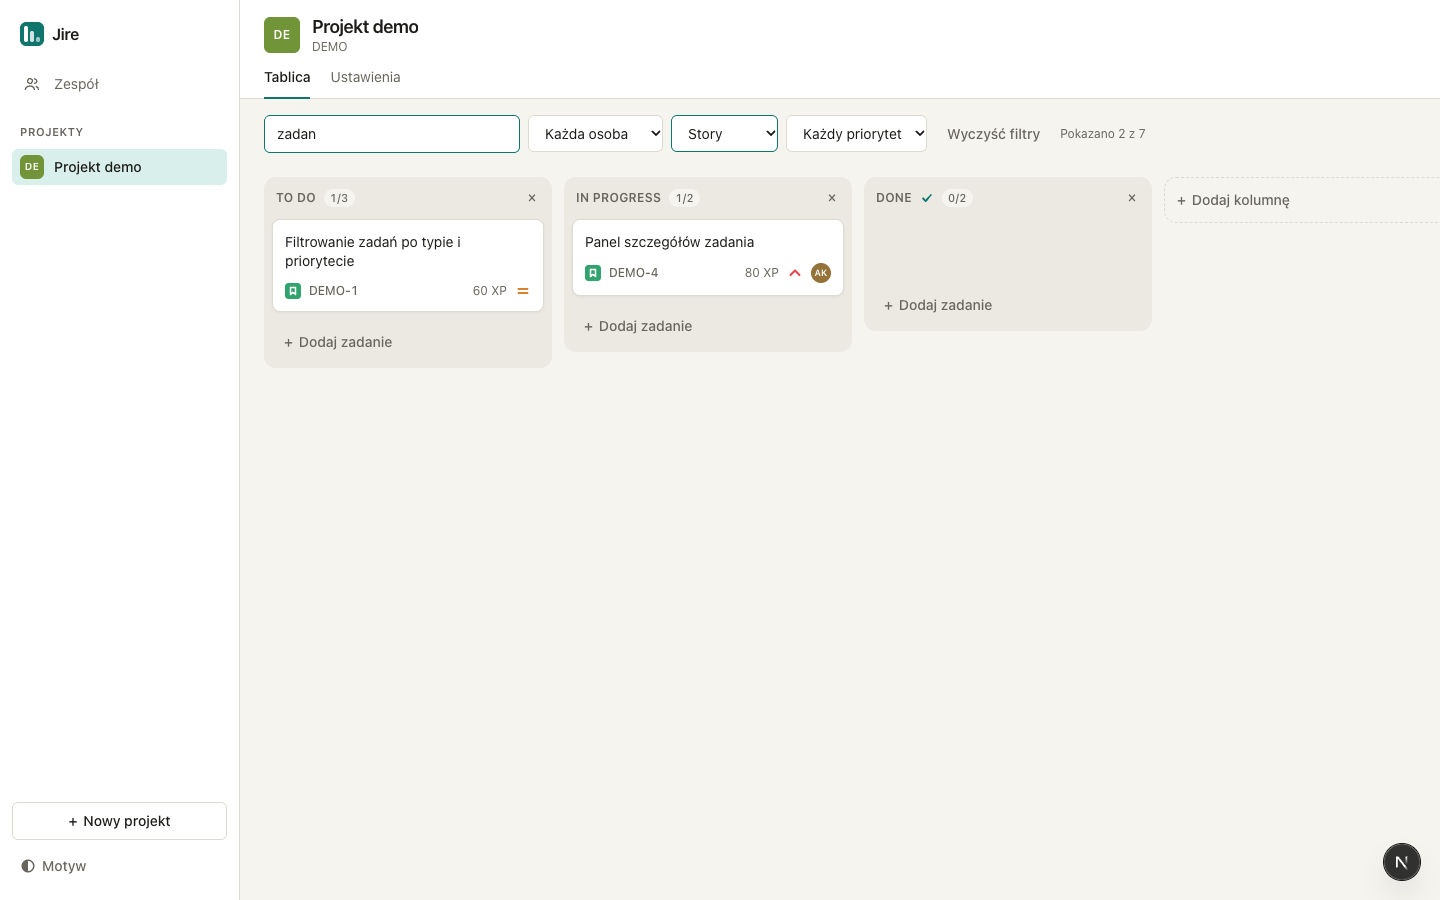
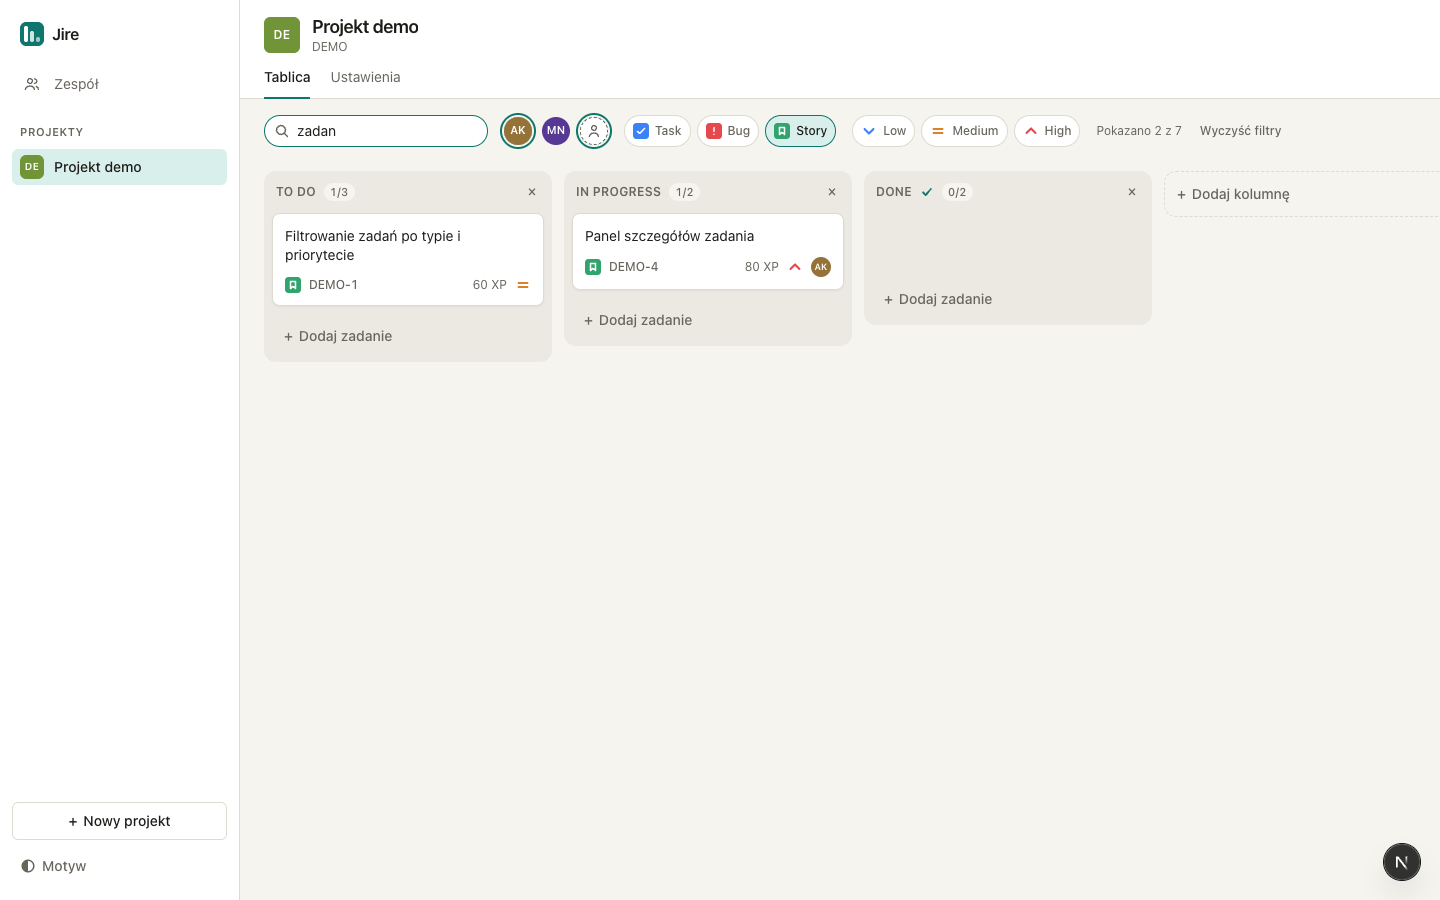
Turn the board filters into toggle chips
The selects made the bar look like a form and stretched across the whole
width on narrower screens. People are now avatar toggles and types and
priorities are chips with their icons, several of which can be on at once.
On phones the toggles sit in one strip that scrolls sideways.

diff --git a/src/components/BoardFilters.tsx b/src/components/BoardFilters.tsx
@@ -10,30 +10,31 @@ import {
   type IssueType,
 } from "@/lib/constants";
 import type { BoardIssue } from "@/lib/queries";
-
-const UNASSIGNED = "none";
+import { PriorityIcon, TypeIcon } from "./IssueBadges";
+import { MemberAvatar } from "./MemberAvatar";
 
 export type BoardFilters = {
   query: string;
-  /** "" for anyone, UNASSIGNED, or a member id. */
-  assignee: string;
-  type: IssueType | "";
-  priority: IssuePriority | "";
+  /** Member ids; null stands for issues nobody is assigned to. */
+  assignees: (number | null)[];
+  types: IssueType[];
+  priorities: IssuePriority[];
 };
 
+// An empty list means "any": a filter only narrows once something is picked.
 export const NO_FILTERS: BoardFilters = {
   query: "",
-  assignee: "",
-  type: "",
-  priority: "",
+  assignees: [],
+  types: [],
+  priorities: [],
 };
 
 export function hasFilters(filters: BoardFilters) {
   return (
     filters.query.trim() !== "" ||
-    filters.assignee !== "" ||
-    filters.type !== "" ||
-    filters.priority !== ""
+    filters.assignees.length > 0 ||
+    filters.types.length > 0 ||
+    filters.priorities.length > 0
   );
 }
 
@@ -51,11 +52,12 @@ export function matchesFilters(
   filters: BoardFilters,
   projectKey: string,
 ) {
-  if (filters.type && issue.type !== filters.type) return false;
-  if (filters.priority && issue.priority !== filters.priority) return false;
-  if (filters.assignee === UNASSIGNED) {
-    if (issue.assigneeId !== null) return false;
-  } else if (filters.assignee && String(issue.assigneeId) !== filters.assignee) {
+  const picked = <T,>(list: T[], value: T) => list.length === 0 || list.includes(value);
+  if (
+    !picked(filters.assignees, issue.assigneeId) ||
+    !picked(filters.types, issue.type) ||
+    !picked(filters.priorities, issue.priority)
+  ) {
     return false;
   }
 
@@ -65,8 +67,71 @@ export function matchesFilters(
     .every((word) => text.includes(word));
 }
 
-const SELECT_CLASS = "field lg:w-auto";
-const activeClass = (value: string) => (value ? "border-accent" : "");
+function toggle<T>(list: T[], value: T) {
+  return list.includes(value) ? list.filter((v) => v !== value) : [...list, value];
+}
+
+const FOCUS_CLASS =
+  "focus-visible:outline-2 focus-visible:outline-accent cursor-pointer";
+
+function Chip({
+  label,
+  pressed,
+  onClick,
+  children,
+}: {
+  /** Accessible name; the visible text has to be part of it. */
+  label: string;
+  pressed: boolean;
+  onClick: () => void;
+  children: React.ReactNode;
+}) {
+  return (
+    <button
+      type="button"
+      aria-label={label}
+      aria-pressed={pressed}
+      onClick={onClick}
+      className={`inline-flex h-8 items-center gap-1.5 rounded-full border px-2 text-xs font-medium transition-colors focus-visible:outline-offset-2 ${FOCUS_CLASS} ${
+        pressed
+          ? "border-accent bg-accent-soft text-fg"
+          : "border-line bg-surface text-muted hover:border-muted hover:text-fg"
+      }`}
+    >
+      {children}
+    </button>
+  );
+}
+
+// Avatar-sized toggle: a ring marks the people the board is narrowed to.
+function PersonToggle({
+  name,
+  pressed,
+  onClick,
+  children,
+}: {
+  name: string;
+  pressed: boolean;
+  onClick: () => void;
+  children: React.ReactNode;
+}) {
+  return (
+    <button
+      type="button"
+      aria-label={`Osoba: ${name}`}
+      aria-pressed={pressed}
+      title={name}
+      onClick={onClick}
+      className={`flex rounded-full ring-offset-2 ring-offset-bg transition-shadow focus-visible:outline-offset-4 ${FOCUS_CLASS} ${
+        pressed ? "ring-2 ring-accent" : "hover:ring-2 hover:ring-line"
+      }`}
+    >
+      {children}
+    </button>
+  );
+}
+
+const GROUP_CLASS = "flex items-center max-sm:shrink-0 sm:flex-wrap";
 
 export function BoardFilterBar({
   filters,
@@ -83,82 +148,124 @@ export function BoardFilterBar({
   total: number;
 }) {
   const filtering = hasFilters(filters);
+  const toggleAssignee = (id: number | null) =>
+    onChange({ ...filters, assignees: toggle(filters.assignees, id) });
 
   return (
     <div
       role="search"
       aria-label="Filtrowanie zadań"
-      className="grid shrink-0 grid-cols-2 items-center gap-2 px-4 pt-4 sm:grid-cols-3 md:px-6 lg:flex lg:flex-wrap"
+      className="flex shrink-0 flex-wrap items-center gap-x-4 gap-y-2.5 px-4 pt-4 md:px-6"
     >
-      <input
-        type="search"
-        className={`field col-span-full lg:w-64 ${activeClass(filters.query.trim())}`}
-        value={filters.query}
-        onChange={(e) => onChange({ ...filters, query: e.target.value })}
-        placeholder="Szukaj zadań"
-        aria-label="Szukaj zadań"
-      />
-      <select
-        className={`${SELECT_CLASS} ${activeClass(filters.assignee)}`}
-        value={filters.assignee}
-        onChange={(e) => onChange({ ...filters, assignee: e.target.value })}
-        aria-label="Osoba"
-      >
-        <option value="">Każda osoba</option>
-        <option value={UNASSIGNED}>Nieprzypisane</option>
-        {members.map((member) => (
-          <option key={member.id} value={member.id}>
-            {member.name}
-          </option>
-        ))}
-      </select>
-      <select
-        className={`${SELECT_CLASS} ${activeClass(filters.type)}`}
-        value={filters.type}
-        onChange={(e) =>
-          onChange({ ...filters, type: e.target.value as IssueType | "" })
-        }
-        aria-label="Typ"
-      >
-        <option value="">Każdy typ</option>
-        {ISSUE_TYPES.map((type) => (
-          <option key={type} value={type}>
-            {TYPE_LABELS[type]}
-          </option>
-        ))}
-      </select>
-      <select
-        className={`${SELECT_CLASS} ${activeClass(filters.priority)}`}
-        value={filters.priority}
-        onChange={(e) =>
-          onChange({ ...filters, priority: e.target.value as IssuePriority | "" })
-        }
-        aria-label="Priorytet"
-      >
-        <option value="">Każdy priorytet</option>
-        {ISSUE_PRIORITIES.map((priority) => (
-          <option key={priority} value={priority}>
-            {PRIORITY_LABELS[priority]}
-          </option>
-        ))}
-      </select>
-      {filtering && (
-        <button
-          type="button"
-          className="btn btn-ghost justify-self-start"
-          onClick={() => onChange(NO_FILTERS)}
+      <div className="relative w-full sm:w-56">
+        <svg
+          viewBox="0 0 16 16"
+          className="pointer-events-none absolute top-2 left-2.5 size-4 text-muted"
+          aria-hidden
         >
-          Wyczyść filtry
-        </button>
-      )}
+          <path
+            d="M7 11.5a4.5 4.5 0 100-9 4.5 4.5 0 000 9zM10.3 10.3l3.2 3.2"
+            fill="none"
+            stroke="currentColor"
+            strokeWidth="1.5"
+            strokeLinecap="round"
+          />
+        </svg>
+        <input
+          type="search"
+          className={`field h-8 rounded-full py-0 pr-3 pl-8 ${
+            filters.query.trim() ? "border-accent" : ""
+          }`}
+          value={filters.query}
+          onChange={(e) => onChange({ ...filters, query: e.target.value })}
+          placeholder="Szukaj zadań"
+          aria-label="Szukaj zadań"
+        />
+      </div>
+
+      {/* On phones the toggles form one strip that scrolls sideways and fades
+          out at the right edge; from sm up they wrap with the rest of the bar. */}
+      <div className="-mx-4 -my-1.5 flex gap-x-4 overflow-x-auto px-4 py-1.5 [scrollbar-width:none] max-sm:mask-r-from-[calc(100%-2rem)] sm:contents">
+        <div role="group" aria-label="Osoba" className={`${GROUP_CLASS} gap-2.5`}>
+          {members.map((member) => (
+            <PersonToggle
+              key={member.id}
+              name={member.name}
+              pressed={filters.assignees.includes(member.id)}
+              onClick={() => toggleAssignee(member.id)}
+            >
+              <MemberAvatar name={member.name} size="md" />
+            </PersonToggle>
+          ))}
+          <PersonToggle
+            name="Nieprzypisane"
+            pressed={filters.assignees.includes(null)}
+            onClick={() => toggleAssignee(null)}
+          >
+            <span className="inline-flex size-7 items-center justify-center rounded-full border border-dashed border-muted bg-surface text-muted">
+              <svg viewBox="0 0 16 16" className="size-4" aria-hidden>
+                <path
+                  d="M8 7.5a2.5 2.5 0 100-5 2.5 2.5 0 000 5zM3.5 13.5c0-2.2 2-3.5 4.5-3.5s4.5 1.3 4.5 3.5"
+                  fill="none"
+                  stroke="currentColor"
+                  strokeWidth="1.4"
+                  strokeLinecap="round"
+                  strokeLinejoin="round"
+                />
+              </svg>
+            </span>
+          </PersonToggle>
+        </div>
+
+        <div role="group" aria-label="Typ" className={`${GROUP_CLASS} gap-1.5`}>
+          {ISSUE_TYPES.map((type) => (
+            <Chip
+              key={type}
+              label={`Typ: ${TYPE_LABELS[type]}`}
+              pressed={filters.types.includes(type)}
+              onClick={() => onChange({ ...filters, types: toggle(filters.types, type) })}
+            >
+              <TypeIcon type={type} />
+              {TYPE_LABELS[type]}
+            </Chip>
+          ))}
+        </div>
+
+        <div role="group" aria-label="Priorytet" className={`${GROUP_CLASS} gap-1.5`}>
+          {ISSUE_PRIORITIES.map((priority) => (
+            <Chip
+              key={priority}
+              label={`Priorytet: ${PRIORITY_LABELS[priority]}`}
+              pressed={filters.priorities.includes(priority)}
+              onClick={() =>
+                onChange({ ...filters, priorities: toggle(filters.priorities, priority) })
+              }
+            >
+              <PriorityIcon priority={priority} />
+              {PRIORITY_LABELS[priority]}
+            </Chip>
+          ))}
+        </div>
+
+      </div>
+
       {/* Always rendered so changes are announced; while empty it is taken
-          out of the grid so it does not open a row of its own. */}
+          out of the flow so it cannot wrap onto a line of its own. */}
       <p role="status" className="text-xs text-muted empty:absolute">
         {filtering &&
           (shown === 0
             ? "Żadne zadanie nie pasuje do filtrów."
             : `Pokazano ${shown} z ${total}`)}
       </p>
+      {filtering && (
+        <button
+          type="button"
+          className="btn btn-ghost -ml-2 h-8 rounded-full px-2.5 py-0 text-xs"
+          onClick={() => onChange(NO_FILTERS)}
+        >
+          Wyczyść filtry
+        </button>
+      )}
     </div>
   );
 }

diff --git a/src/components/MemberAvatar.tsx b/src/components/MemberAvatar.tsx
@@ -9,24 +9,29 @@ function initials(name: string) {
   return letters.join("").toLocaleUpperCase("pl");
 }
 
+const SIZES = {
+  sm: "size-5 text-[9px]",
+  md: "size-7 text-[11px]",
+  lg: "size-10 text-sm",
+};
+
 /** Round, to tell people apart from the square project avatars. */
 export function MemberAvatar({
   name,
-  size = "md",
+  size = "lg",
   labelled = false,
 }: {
   name: string;
-  size?: "sm" | "md";
+  size?: keyof typeof SIZES;
   /** Announce the person's name; leave off when the name is shown next to it. */
   labelled?: boolean;
 }) {
-  const dimensions = size === "sm" ? "size-5 text-[9px]" : "size-10 text-sm";
   return (
     <span
       {...(labelled
         ? { role: "img", "aria-label": `Osoba: ${name}`, title: name }
         : { "aria-hidden": true })}
-      className={`inline-flex shrink-0 items-center justify-center rounded-full font-semibold text-white ${dimensions}`}
+      className={`inline-flex shrink-0 items-center justify-center rounded-full font-semibold text-white ${SIZES[size]}`}
       style={{ background: `hsl(${hueFromKey(name)} 45% 40%)` }}
     >
       {initials(name)}

diff --git a/README.md b/README.md
@@ -22,8 +22,9 @@ first start in `data/jire.db` (the file is not tracked by git).
   Columns are reordered by dragging their header, added with the button at the end of
   the board, and deleted with the × in their header.
 - **Search and filters** above the board: a text search over issue keys and titles
-  (ignoring case and Polish diacritics) plus assignee, type and priority filters. They
-  only hide cards in the browser, so dragging still works and a reload resets them.
+  (ignoring case and Polish diacritics) plus toggles for assignees, types and
+  priorities; several can be on at once. They only hide cards in the browser, so
+  dragging still works and a reload resets them.
 - **Issue** with a title, description, type (Task / Bug / Story), priority, assignee and
   status (its column); it opens on top of the board at its own URL, e.g.
   `/projects/SKL/issues/SKL-1`.
